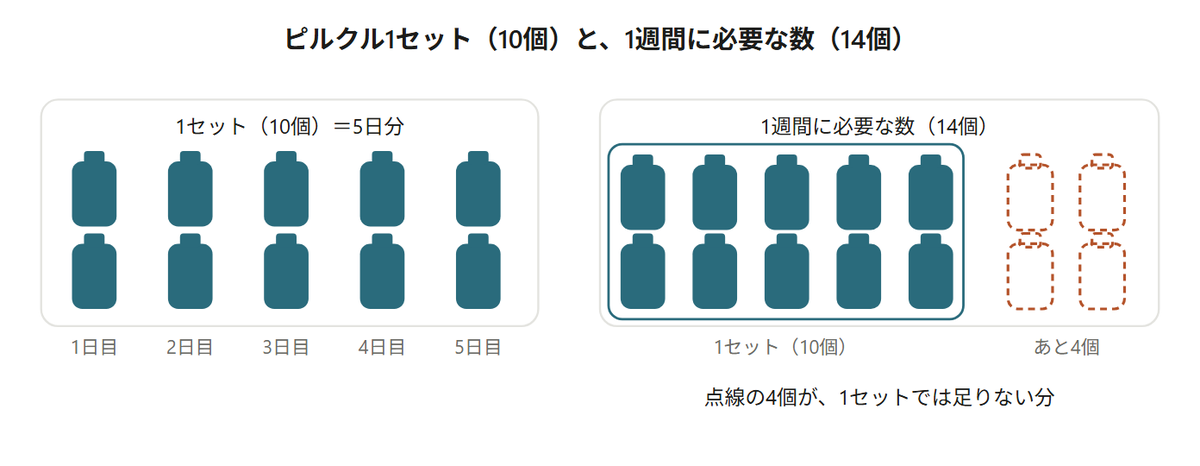
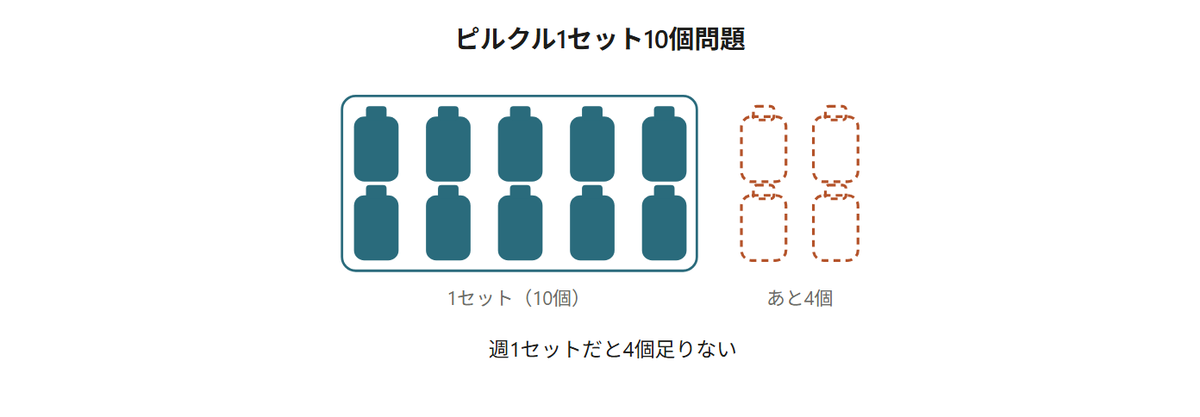
レビュー用ページ: ピルクル1セットの図を右側だけにする

diff --git a/ai-netsuper/index.html b/ai-netsuper/index.html
@@ -95,7 +95,7 @@ img.eye{margin:0 0 26px;border:0;border-radius:6px}
 <h3>買い物量の調整</h3>
 <p>量を調整する必要があるものと言えば、ピルクルです。ピルクルとは要するにヤクルトみたいなもので、うちでは鉄分入りのピルクルを重宝しています。ピルクルは基本10個入りで、我が家では1日に2個消費します。つまり、1週間では14個必要です。1セットでは4個足りません。</p>
 <img src="img13.png?v=8b36f4cf" alt="">
-<img src="img14.png?v=08f61970" alt="">
+<img src="img14.png?v=8df5002a" alt="">
 <p>一週間1セットで足りないからといって、毎週2セットずつ購入していると、毎週6個ずつ余っていきます。これを繰り返していると、どんどん在庫が増えてしまいます。</p>
 <img src="img15.png?v=61543fd7" alt="">
 <p class="cap">賞味期限による廃棄は考えていません。</p>
